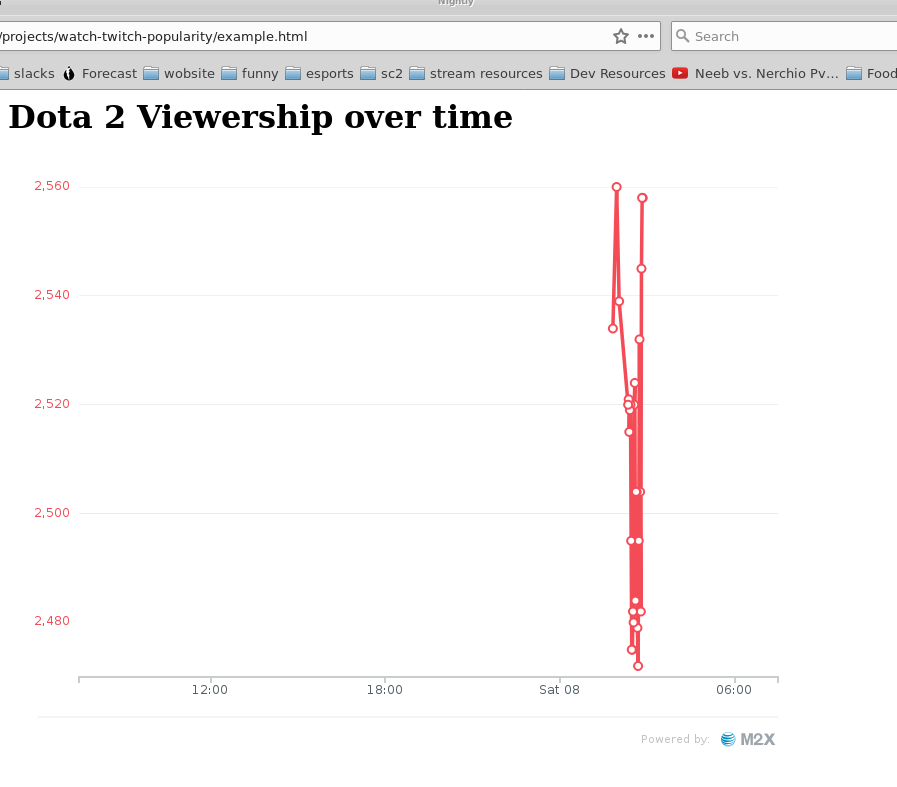
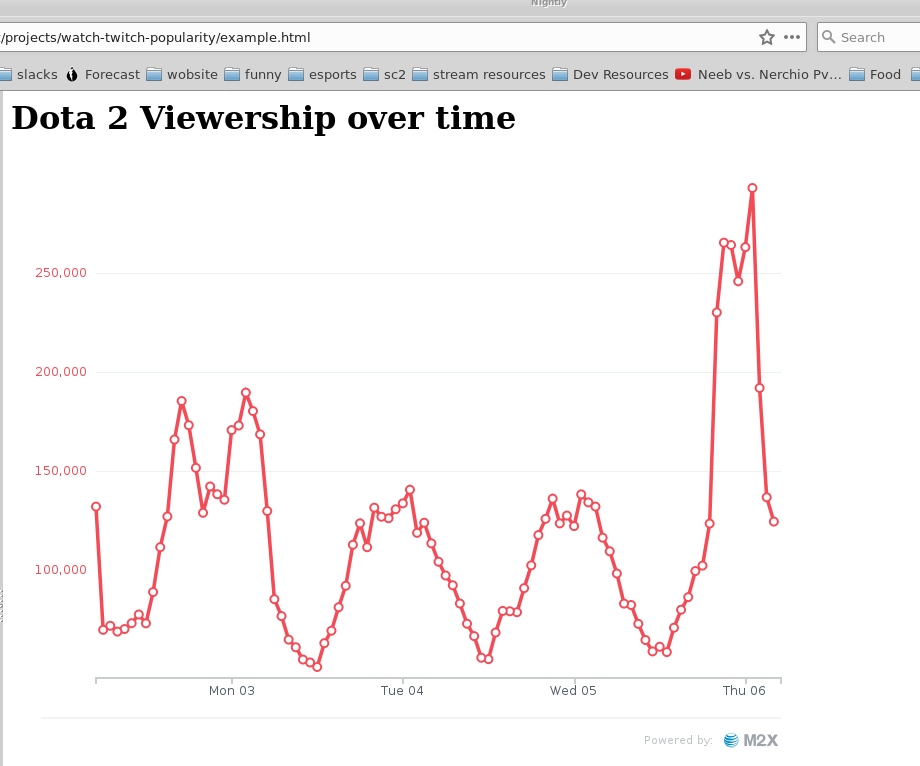
Update embeded chart

diff --git a/example.html b/example.html
@@ -1,0 +1,6 @@
+<html>
+<body>
+<h1> Dota 2 Viewership over time </h1>
+<img src="https://api-m2x.att.com/v2/charts/4cc1459d4df1360a38f0b0144b264497.png?width=800&height=600&type=avg&interval=3600&start=2017-07-02T05%3A00%3A00.000Z&end=2017-07-06T05%3A00%3A00.000Z">
+</body>
+</html>
